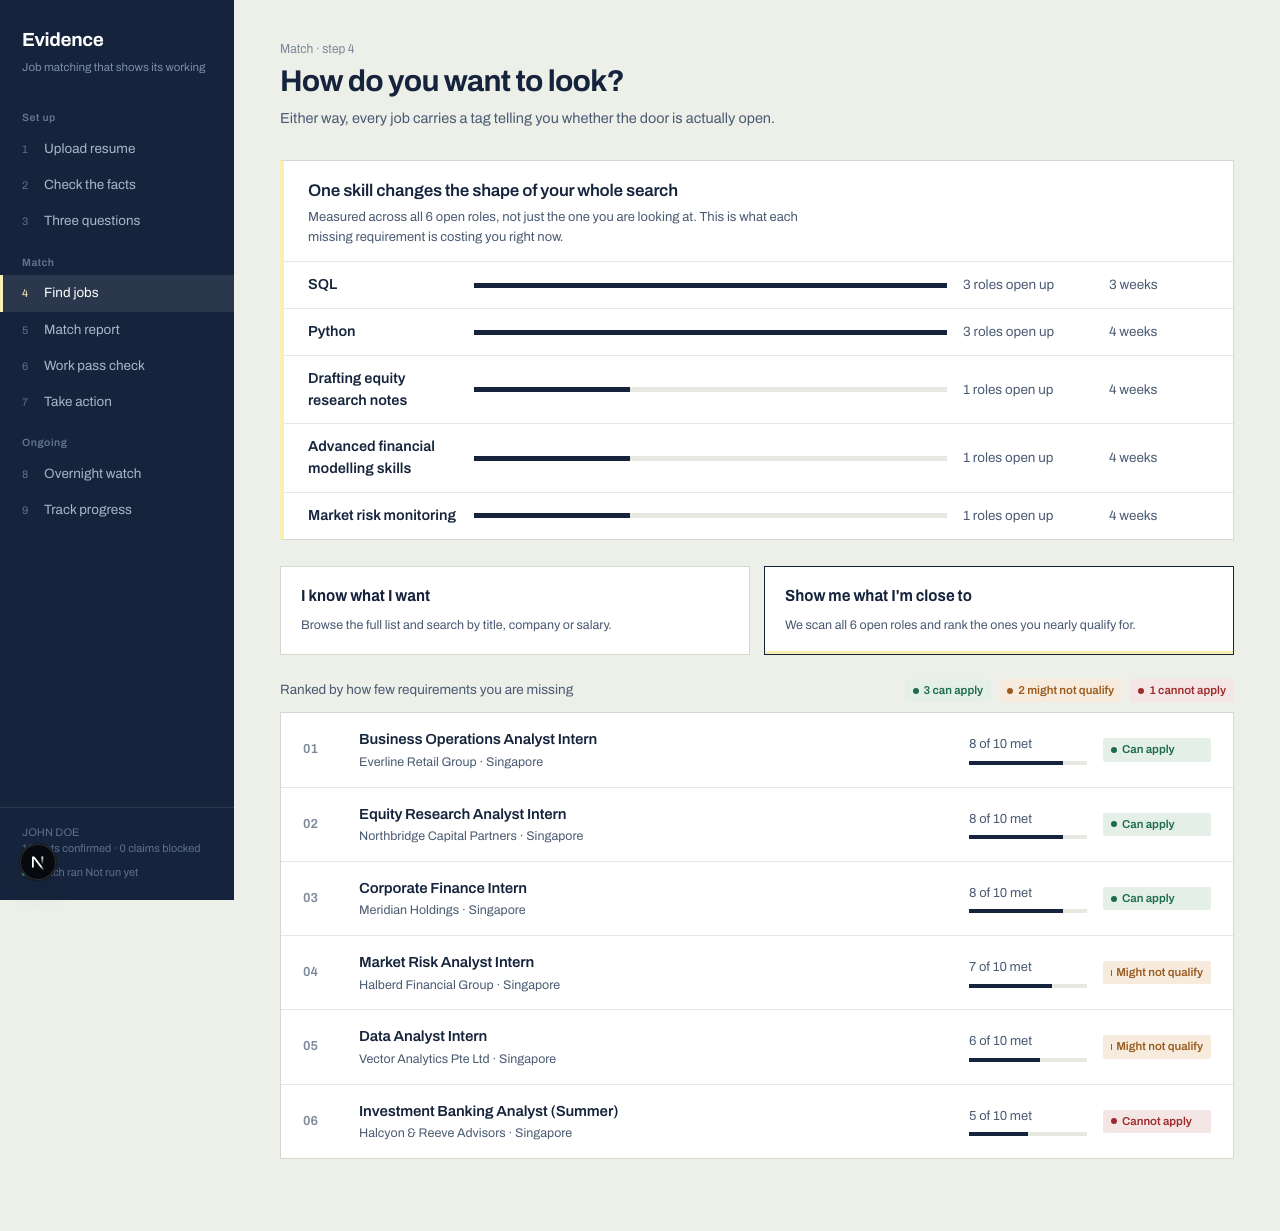
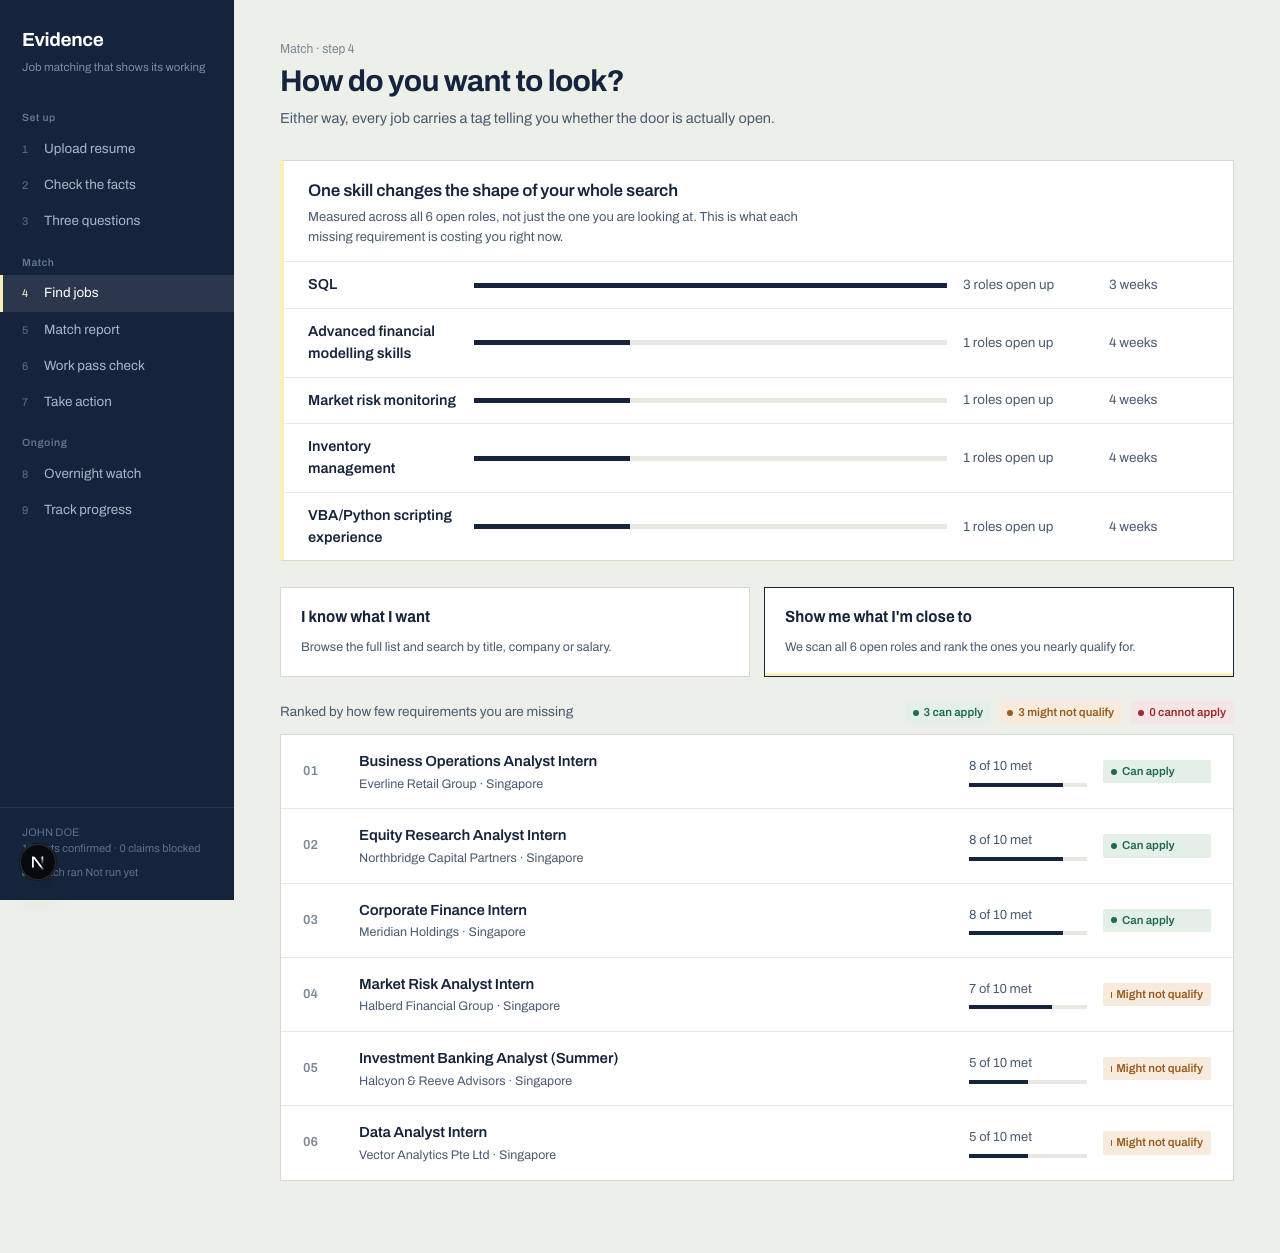
Add /discover browse-tab screenshot; recapture close-tab for consistency
Add 04-discover-browse.png ("I know what I want" tab, full A-Z list) and
recapture 04-discover.png ("Show me what I'm close to" tab) in the same
session so both show consistent verdicts. Job scoring calls Bedrock live
and scores can shift slightly between separate calls, which had briefly
left one job's verdict ("Might not qualify" vs "Cannot apply") looking
inconsistent between the two tabs.

diff --git a/README.md b/README.md
@@ -155,7 +155,8 @@ Playwright) live in [`.claude/screenshots/`](.claude/screenshots/):
 | `01-upload.png`   | `/` — upload resume                                |
 | `02-facts.png`    | `/facts` — parsed facts from a real PDF            |
 | `03-profile.png`  | `/profile` — three questions                        |
-| `04-discover.png` | `/discover` — job list ranked against the resume    |
+| `04-discover.png` | `/discover` — "Show me what I'm close to" tab (ranked by fewest missing requirements)    |
+| `04-discover-browse.png` | `/discover` — "I know what I want" tab (full list, sorted A–Z)    |
 | `05-match.png`    | `/match?job=` — match report                        |
 | `06-pass.png`     | `/pass?job=` — work pass check (stub)                |
 | `07-watch.png`    | `/watch` — overnight watch toggle                    |
